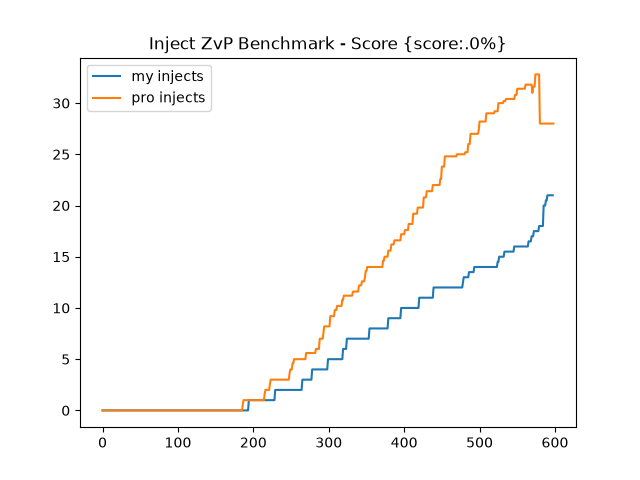
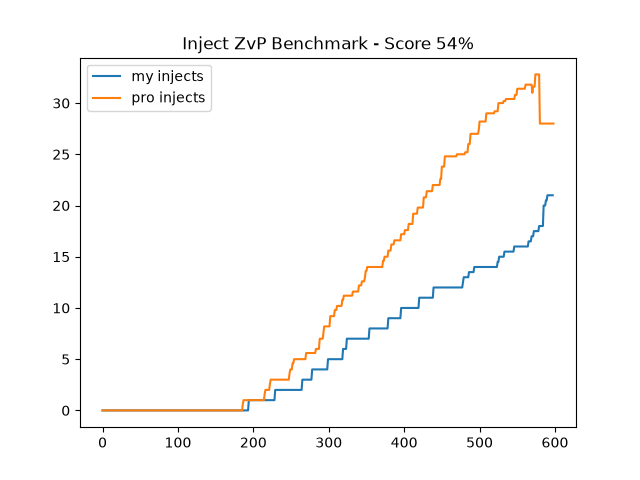
save

Changed region(s): [[0.2188, 0.0625, 0.7812, 0.125]]

diff --git a/src/__pycache__/output_html.html b/src/__pycache__/output_html.html
@@ -1,0 +1,55 @@
+<!DOCTYPE html>
+<html lang="en">
+<head>
+    <meta charset="UTF-8">
+    <meta name="viewport" content="width=device-width, initial-scale=1.0">
+    <title>Image Gallery</title>
+    <style>
+        body {
+            font-family: Arial, sans-serif;
+            background-color: #f4f4f9;
+            margin: 20px;
+            display: flex;
+            flex-direction: column;
+            align-items: center;
+        }
+
+        h1 {
+            color: #333;
+        }
+
+        .gallery {
+            display: flex;
+            flex-wrap: wrap;
+            gap: 15px;
+            justify-content: center;
+            max-width: 1200px;
+        }
+
+        .gallery img {
+            max-width: 100%;
+            height: auto;
+            border-radius: 8px;
+            box-shadow: 0 4px 8px rgba(0, 0, 0, 0.1);
+        }
+    </style>
+</head>
+<body>
+
+    <h1>My Images</h1>
+
+    <div class="gallery">
+        <img src="my_inject_zvt_benchmark.png" alt="Image 1">
+        <img src="my_inject_zvz_benchmark.png" alt="Image 2">
+        <img src="my_inject_zvp_benchmark.png" alt="Image 3">
+        <img src="my_unspent_zvt_benchmark.png" alt="Image 4">
+        <img src="my_unspent_zvz_benchmark.png" alt="Image 5">
+        <img src="my_unspent_zvp_benchmark.png" alt="Image 6">
+        <!-- <img src="7.png" alt="Image 7">
+        <img src="8.png" alt="Image 8">
+        <img src="9.png" alt="Image 9">
+        <img src="10.png" alt="Image 10"> -->
+    </div>
+
+</body>
+</html>
